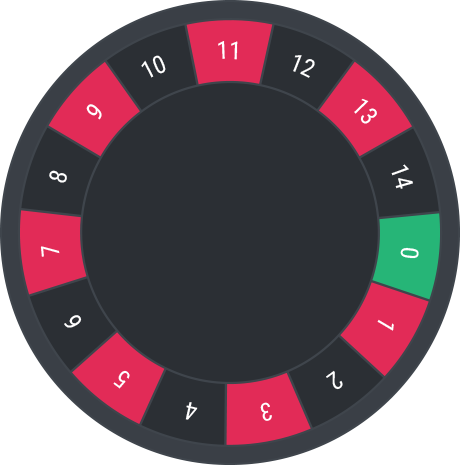
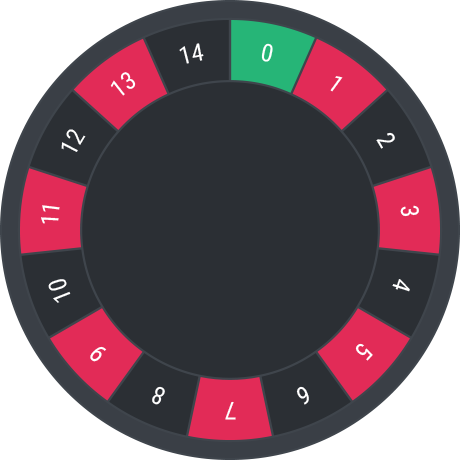
Front-roulette

diff --git a/shared/components/pages/RouletteGame/RouletteWheel.jsx b/shared/components/pages/RouletteGame/RouletteWheel.jsx
@@ -5,6 +5,7 @@ import roulette from '../../../../config/roulette.js';
 export default class RouletteWheel extends Component {
     state = {
         status: '',
+        angleLast: 0,
         timerSeconds: 20,
         donutData: [{value: (roulette.ROULETTE_TIMER), stroke: "#ff7900", strokeWidth: .5}]
     };
@@ -52,15 +53,20 @@ export default class RouletteWheel extends Component {
                 break;
             }
             case ROULETTE_IN_GAME: {
+                let sector = 2;
+                let offset = 3;
+                // TODO: increment sector
+                let angle = - (24 * sector - (24 - offset));
+                console.log(angle)
                 this.setState({
                     status,
+                    angleLast: angle,
                     donutData: [{value: (roulette.ROULETTE_TIMER), stroke: "#ff7900", strokeWidth: .5}]
                 });
                 this.gambleBlock.classList.add('zoom');
-                // this.wheelBlock.style.transform = 'rotate(' + (1440 + 7) + 'deg)';
-                this.wheelBlock.style.transform = 'rotate(' + (1440 + 7) + 'deg)';
+                this.wheelBlock.style.transition = '7s ease all';
+                this.wheelBlock.style.transform = 'rotate(' + (1440 + angle ) + 'deg)';
                 setTimeout(() => this.gambleBlock.classList.remove('zoom'), 500);
-
                 break;
             }
             case ROULETTE_REWARDS: {
@@ -68,7 +74,10 @@ export default class RouletteWheel extends Component {
                     status,
                     donutData: [{value: (roulette.ROULETTE_TIMER), stroke: "#ff7900", strokeWidth: .5}]
                 });
-                this.wheelWinnerBlock.style.transform = 'rotate(' + 7 + 'deg)';
+                let offset = 3;
+                this.wheelBlock.style.transition = 'none';
+                this.wheelBlock.style.transform = 'rotate('+ this.state.angleLast + 'deg)';
+                this.wheelWinnerBlock.style.transform = 'rotate(' + (12 - offset) + 'deg)';
                 break;
             }
         }

diff --git a/shared/assets/styles/modules/roulette/_rouletteWheel.scss b/shared/assets/styles/modules/roulette/_rouletteWheel.scss
@@ -24,6 +24,30 @@
   }
   &__roulette {
     transform: rotate(0deg);
+    //transition: 7s ease all;
+  }
+  &__roulette-winner,
+  &__roulette {
+    width: 100%;
+    height: 100%;
+    position: absolute;
+    left: 0;
+    top: 0;
+    z-index: 1;
+    background-size: contain;
+    background-repeat: no-repeat;
+    background-position: center top;
+    background-image: url('/static/images/roulette.png');
+  }
+  &__roulette-winner {
+    z-index: 3;
+    background-image: url('/static/images/roulette-win.png');
+    &.hide {
+      opacity: 0;
+    }
+  }
+  &__roulette {
+    transform: rotate(0deg);
     transition: 7s ease all;
   }
   &__roulette-winner,
